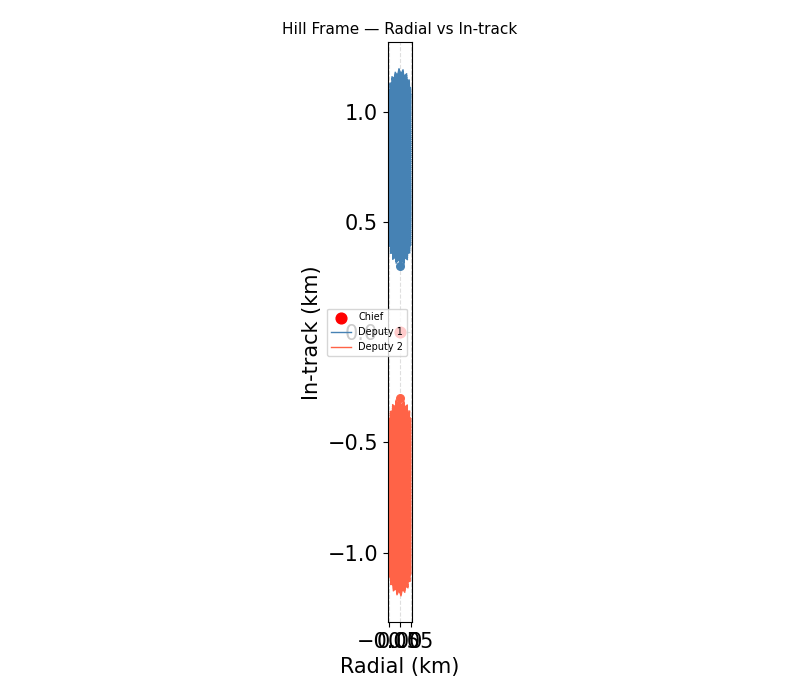
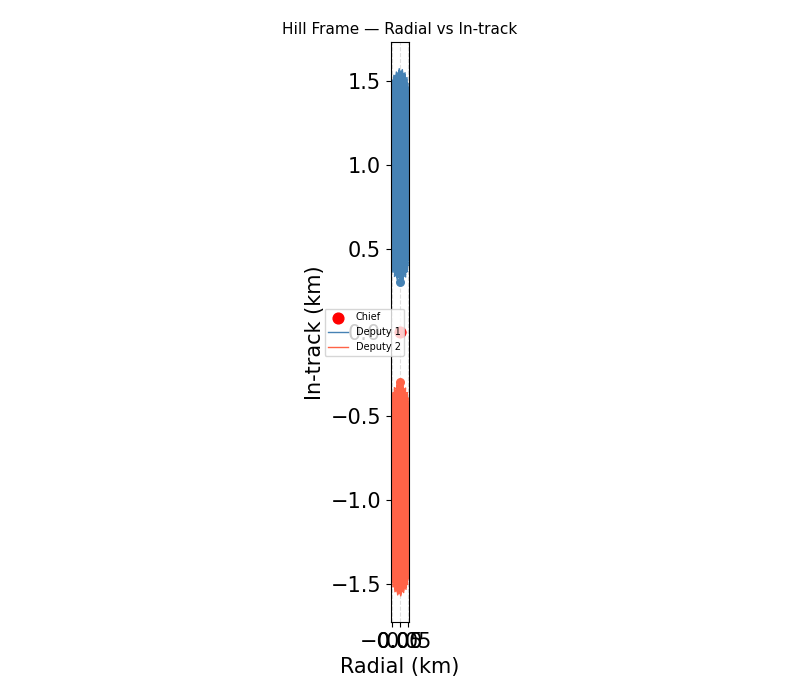
ideal force model figures re-generated

Changed region(s): [[0.375, 0.06, 0.5625, 0.93]]

diff --git a/term_project/src/design_A_final.py b/term_project/src/design_A_final.py
@@ -33,7 +33,7 @@ from propagate import (
 
 # ── Save directory ──
 THIS_DIR = Path(__file__).resolve().parent
-path = THIS_DIR.parent / "figs" / "full_force_model" / "design_A" / "helix"
+path = THIS_DIR.parent / "figs" / "ideal_force_model" / "design_A" / "pearls"
 
 # ══════════════════════════════════════════════════════════════════════
 # SETUP
@@ -51,10 +51,10 @@ sun_pv = sun.getPVCoordinates(initial_date, eci).getPosition()
 sun_ra = np.arctan2(sun_pv.getY(), sun_pv.getX())
 
 # ── Force model: J2 only ──
-# perturbs = build_full_force_model(gravity_degree=2, gravity_order=0,
-#                                   include_drag=False,include_srp=False,
-#                                   include_third_body=False)
-perturbs = build_full_force_model()
+perturbs = build_full_force_model(gravity_degree=2, gravity_order=0,
+                                  include_drag=False,include_srp=False,
+                                  include_third_body=False)
+# perturbs = build_full_force_model()
 
 max_dist = 1.5 #(km)
 
@@ -76,8 +76,8 @@ chief_orbit = KeplerianOrbit(
 # ══════════════════════════════════════════════════════════════════════
 # DEPUTY INITIALIZATION — HELIX
 # ══════════════════════════════════════════════════════════════════════
-deputy_roes   = init_close_helix_deputies(chief_orbit, helix_radius_m=300)
-# deputy_roes     = init_string_of_pearls(chief_orbit, separation_m=500)
+# deputy_roes   = init_close_helix_deputies(chief_orbit, helix_radius_m=300)
+deputy_roes     = init_string_of_pearls(chief_orbit, separation_m=500)
 deputy_orbits = [apply_ROE(chief_orbit, r) for r in deputy_roes]
 
 # ══════════════════════════════════════════════════════════════════════

diff --git a/term_project/src/design_B_final.py b/term_project/src/design_B_final.py
@@ -33,7 +33,7 @@ from propagate import (
 
 # ── Save directory ──
 THIS_DIR = Path(__file__).resolve().parent
-path = THIS_DIR.parent / "figs" / "full_force_model" / "design_B"
+path = THIS_DIR.parent / "figs" / "ideal_force_model" / "design_B"
 
 # ══════════════════════════════════════════════════════════════════════
 # SETUP
@@ -51,8 +51,8 @@ sun_pv = sun.getPVCoordinates(initial_date, eci).getPosition()
 sun_ra = np.arctan2(sun_pv.getY(), sun_pv.getX())
 
 # ── Force model: J2 only ──
-# perturbs = build_full_force_model(gravity_degree=2, gravity_order=0, include_drag=False,include_srp=False, include_third_body=False)
-perturbs = build_full_force_model()
+perturbs = build_full_force_model(gravity_degree=2, gravity_order=0, include_drag=False,include_srp=False, include_third_body=False)
+# perturbs = build_full_force_model()
 
 max_dist = 5.0
 
